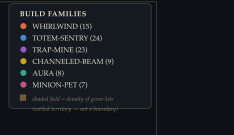
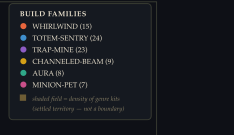
galadriel: r8-fix — BUILD FAMILIES key box now contains its 2nd gloss line (gandalf verify-gate defect)
The one containment defect from gandalf's r8 verify gate: the condensation/BUILD-FAMILIES
key box did NOT contain its second gloss line "(settled territory — not a boundary)" —
pre-fix box bottom 250.5 vs line-2 baseline 253.0, text straddled the border on both skins.

Root cause (shared layout engine, one fix): the box height was budgeted from a glossBlockH
that under-counted the second gloss line (allowed keyGloss+12+4 while the inter-gloss pitch
is 11). Re-derived box height FROM CONTENT — last gloss baseline + descender + bottom pad,
computed from the same accumulator the draw loop walks so they cannot diverge. New box bottom
263 (>=261 floor); line-2 baseline 253 now sits 10px inside (~8px clear below the descender).

Also (galadriel call): key gloss font 6.5 -> 7 for the 1440-viewport legibility floor
(6.5 rendered ~5.7px at scale 0.88, below floor); box re-derives from the new pitch, still hugs.

Data geometry BYTE-FROZEN: only the key box height + the two gloss font-sizes changed. Zero
data-mark bytes moved (independent sha proof + acc-23 fit-layer-regression + acc-29
r7-restyle-regression PASS FROZEN). Full acceptance (42) + smoke (17) suite ALL PASS. Nothing
else on the plate moved (graveyard box, title band, ledger, footer, plaques unchanged).
Re-rendered both skins + re-emitted provenance/note + re-cut key crop receipts into the same
r8-furniture capture folder (not yet consumed downstream).

Changed region(s): [[0.0299, 0.7111, 0.6581, 0.8889]]

diff --git a/agentic_orchestration/galadriel/captures/2026-07-16-atlas-edition3-r8-furniture/verification-note.md b/agentic_orchestration/galadriel/captures/2026-07-16-atlas-edition3-r8-furniture/verification-note.md
@@ -16,6 +16,12 @@ the Edition-III head's, carried VERBATIM. The Edition-III artifacts + capture di
 both skins. Furniture factors chosen per-class BY EYE against crop receipts at 2560 + 1440 display scales
 (see the crop set in `crops/`). The carried Edition-III census header follows verbatim.
 
+**r8-fix (2026-07-16 — containment):** the BUILD FAMILIES key box did not contain its 2nd gloss line
+(pre-fix box bottom 250.5 vs line-2 baseline 253.0 → straddled the border, both skins). Fix: box height
+RE-DERIVED FROM CONTENT (last gloss baseline + descender + bottom pad, from the same accumulator the draw
+loop walks) → box bottom 263, line-2 baseline 253 sits 10px inside. Key gloss font 6.5→7 (1440-legibility
+floor; box re-derives from the new pitch, still hugs). Data geometry stayed byte-frozen (acc-23/29 PASS).
+
 ## Carried Edition-III context (verbatim)
 
 **EDITION III (2026-07-16, gandalf brief `2026-07-16-galadriel-edition3-render-brief.md`;
